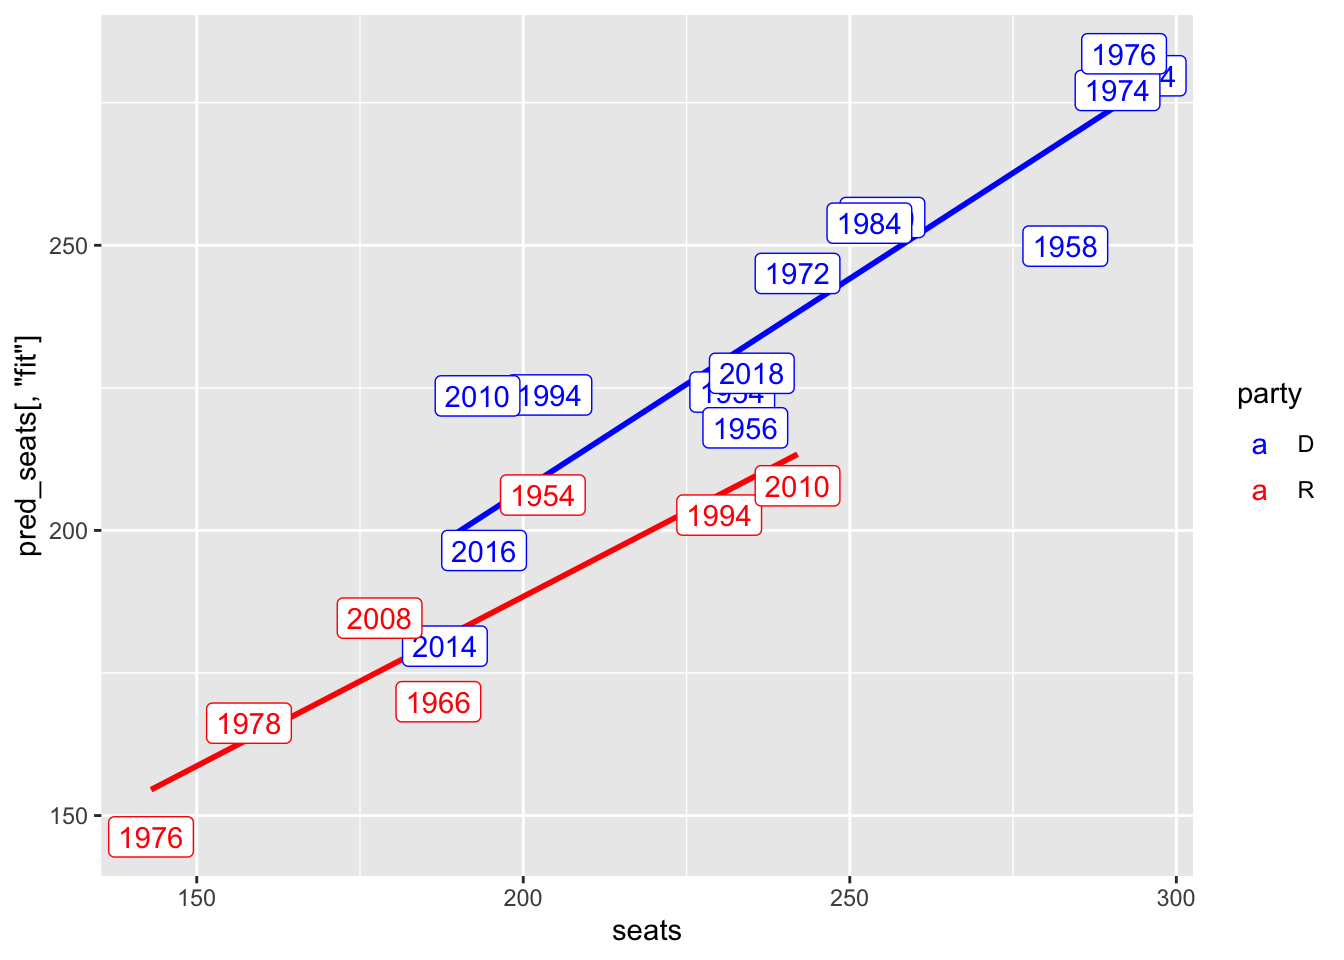
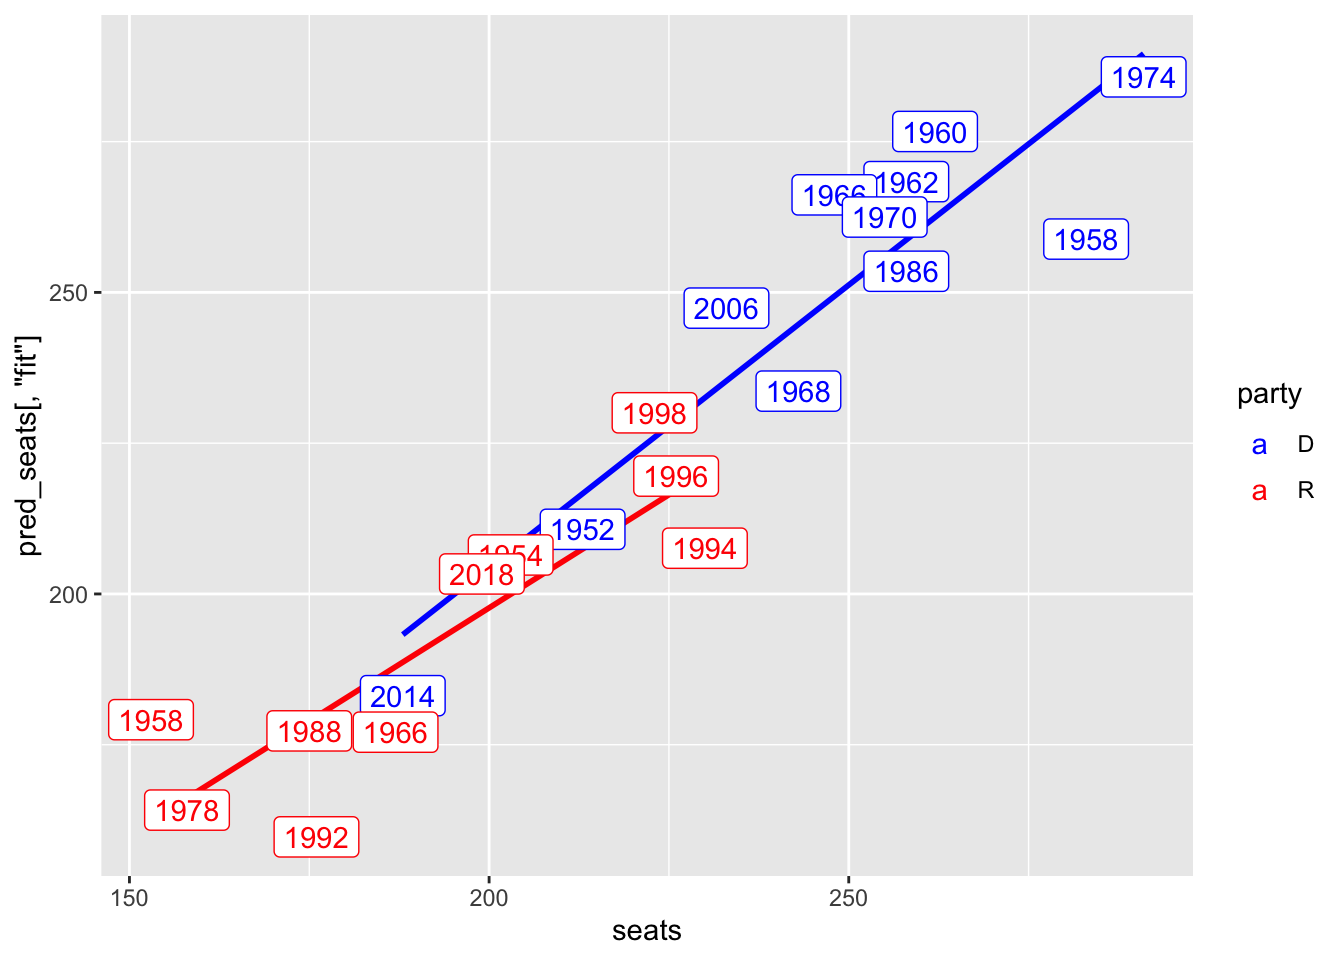
formatting

diff --git a/public/post/2022-10-23-shocks/index.html b/public/post/2022-10-23-shocks/index.html
@@ -114,45 +114,45 @@ and economic data (gdp growth).</p>
 ##                                   seats      majorvote_pct
 ##                                    (1)            (2)     
 ## ----------------------------------------------------------
-## Inc_party_pres                  -78.676***     -5.847***  
-##                                  (15.575)       (2.037)   
+## Inc_party_pres                  -82.476***     -8.512***  
+##                                  (16.156)       (2.145)   
 ##                                                           
-## MidtermYear                     13.897***      2.475***   
-##                                  (4.983)        (0.763)   
+## MidtermYear                      14.309**       2.123**   
+##                                  (5.314)        (0.788)   
 ##                                                           
-## approval                        -0.851***      -0.077***  
-##                                  (0.197)        (0.027)   
+## approval                        -0.757***      -0.084***  
+##                                  (0.186)        (0.026)   
 ##                                                           
-## GDP_growth_pct                   -0.985**       -0.098    
-##                                  (0.480)        (0.069)   
+## GDP_growth_pct                   -1.220**       -0.111    
+##                                  (0.514)        (0.071)   
 ##                                                           
-## poll_pct                         1.083**       0.240***   
-##                                  (0.500)        (0.066)   
+## poll_pct                         1.928***      0.292***   
+##                                  (0.475)        (0.065)   
 ##                                                           
-## lag_seats                        0.744***                 
-##                                  (0.075)                  
+## lag_seats                        0.648***                 
+##                                  (0.071)                  
 ##                                                           
-## lag_pv                                         0.482***   
-##                                                 (0.111)   
+## lag_pv                                         0.401***   
+##                                                 (0.101)   
 ##                                                           
-## Inc_party_pres:MidtermYear      -31.921***     -5.300***  
-##                                  (7.047)        (1.126)   
+## Inc_party_pres:MidtermYear      -27.759***     -4.322***  
+##                                  (7.830)        (1.221)   
 ##                                                           
-## Inc_party_pres:approval          1.507***      0.130***   
-##                                  (0.311)        (0.041)   
+## Inc_party_pres:approval          1.496***      0.166***   
+##                                  (0.308)        (0.041)   
 ##                                                           
-## Inc_party_pres:GDP_growth_pct    1.689**         0.140    
-##                                  (0.671)        (0.099)   
+## Inc_party_pres:GDP_growth_pct    2.042***        0.170    
+##                                  (0.723)        (0.102)   
 ##                                                           
-## Constant                        51.778***      18.856***  
-##                                  (17.900)       (3.980)   
+## Constant                         32.954*       21.296***  
+##                                  (17.902)       (3.753)   
 ##                                                           
 ## ----------------------------------------------------------
 ## Observations                        51            51      
-## R2                                0.925          0.839    
-## Adjusted R2                       0.908          0.804    
-## Residual Std. Error (df = 41)     10.443         1.514    
-## F Statistic (df = 9; 41)        55.868***      23.748***  
+## R2                                0.923          0.858    
+## Adjusted R2                       0.906          0.827    
+## Residual Std. Error (df = 41)     11.263         1.570    
+## F Statistic (df = 9; 41)        54.763***      27.584***  
 ## ==========================================================
 ## Note:                          *p&lt;0.1; **p&lt;0.05; ***p&lt;0.01</code></pre>
 <p>As the model output shows, almost all variables are significant at the 5% level.
@@ -168,14 +168,14 @@ is uncontested.</p>
 <pre><code>## # A tibble: 2 × 4
 ##   party  year pred_seats[,&quot;fit&quot;] [,&quot;lwr&quot;] [,&quot;upr&quot;] pred_vote[,&quot;fit&quot;] [,&quot;lwr&quot;]
 ##   &lt;chr&gt; &lt;dbl&gt;              &lt;dbl&gt;    &lt;dbl&gt;    &lt;dbl&gt;             &lt;dbl&gt;    &lt;dbl&gt;
-## 1 D      2022               196.     174.     219.              48.0     44.8
-## 2 R      2022               236.     213.     259.              52.3     49.0
+## 1 D      2022               198.     174.     223.              47.7     44.4
+## 2 R      2022               240.     215.     264.              52.5     49.1
 ## # … with 1 more variable: pred_vote[3] &lt;dbl&gt;</code></pre>
 <p>As the graphs above show, the model fits fairly well across the testing dataset. And,
-the prediction for 2022 is that the Democrats will get 197 seats with the Republicans
-receiving 241 seats. This sum (438) is greater than the total sum of seats (436),
+the prediction for 2022 is that the Democrats will get 198 seats with the Republicans
+receiving 240 seats. This sum (438) is greater than the total sum of seats (436),
 so I will work on considering how to best account for this constraint. Similarly,
-my model predicts that Republicans will get about 53% of the vote while Democrats
+my model predicts that Republicans will get about 52.5% of the vote while Democrats
 will receive about 47.7% of the vote. The confidence intervals are fairly large and
 just barely overlap, suggesting that both predict with strong confidence that the Republicans
 will gain a majority over the Democrats this November.</p>
@@ -220,6 +220,11 @@ whether the prior election was uncontested.</p>
 ## F Statistic              10.491*** (df = 5; 64)   
 ## ==================================================
 ## Note:                  *p&lt;0.1; **p&lt;0.05; ***p&lt;0.01</code></pre>
+</div>
+<div id="prediction-interval" class="section level1">
+<h1>Prediction Interval</h1>
+<pre class="r"><code>oh_22$pred&lt;-predict(lm_oh,oh_22,interval=&#39;prediction&#39;)
+oh_22[,c(1:3,7:9)]</code></pre>
 <pre><code>## # A tibble: 2 × 6
 ##    year party  term same_party party_support pred[,&quot;fit&quot;] [,&quot;lwr&quot;] [,&quot;upr&quot;]
 ##   &lt;dbl&gt; &lt;chr&gt; &lt;dbl&gt;      &lt;dbl&gt;         &lt;dbl&gt;        &lt;dbl&gt;    &lt;dbl&gt;    &lt;dbl&gt;
@@ -229,7 +234,8 @@ whether the prior election was uncontested.</p>
 while challenger Greg Landsman (D) will get about 42% of the vote. This is very different
 from the few polls that have been released, suggesting each candidate is at about 47% of the vote.
 However, the confidence intervals are very large, so similar to my earlier section, one of my next steps
-will be to better quantify the confidence intervals.</p>
+will be to better quantify the confidence intervals. Additionally, I will work on building more of
+a training/testing split to better validate this model and reformatting for my predictions.</p>
 <p>This difference between my prediction and the polls may be due to the recent redistricting that my model hasn’t accounted for, polling errors, or entirely other causes. Moving forward, I will work on improving
 my Ohio model to include a mixture of polling/expert ratings. I was having trouble with this
 because there are so few years that have data with this information.</p>
@@ -250,7 +256,7 @@ because there are so few years that have data with this information.</p>
         		<footer>
 			
 			<span>
-			&copy; <time datetime="2022-10-26 13:39:50.446846 -0400 EDT m=&#43;0.188037834">2022</time> . Made with <a href='https://gohugo.io'>Hugo</a> using the <a href='https://github.com/EmielH/tale-hugo/'>Tale</a> theme.
+			&copy; <time datetime="2022-10-26 13:45:05.767152 -0400 EDT m=&#43;0.188539418">2022</time> . Made with <a href='https://gohugo.io'>Hugo</a> using the <a href='https://github.com/EmielH/tale-hugo/'>Tale</a> theme.
 			</span>
 		</footer>
 

diff --git a/content/post/2022-10-23-shocks/index.html b/content/post/2022-10-23-shocks/index.html
@@ -64,45 +64,45 @@ and economic data (gdp growth).</p>
 ##                                   seats      majorvote_pct
 ##                                    (1)            (2)     
 ## ----------------------------------------------------------
-## Inc_party_pres                  -78.676***     -5.847***  
-##                                  (15.575)       (2.037)   
+## Inc_party_pres                  -82.476***     -8.512***  
+##                                  (16.156)       (2.145)   
 ##                                                           
-## MidtermYear                     13.897***      2.475***   
-##                                  (4.983)        (0.763)   
+## MidtermYear                      14.309**       2.123**   
+##                                  (5.314)        (0.788)   
 ##                                                           
-## approval                        -0.851***      -0.077***  
-##                                  (0.197)        (0.027)   
+## approval                        -0.757***      -0.084***  
+##                                  (0.186)        (0.026)   
 ##                                                           
-## GDP_growth_pct                   -0.985**       -0.098    
-##                                  (0.480)        (0.069)   
+## GDP_growth_pct                   -1.220**       -0.111    
+##                                  (0.514)        (0.071)   
 ##                                                           
-## poll_pct                         1.083**       0.240***   
-##                                  (0.500)        (0.066)   
+## poll_pct                         1.928***      0.292***   
+##                                  (0.475)        (0.065)   
 ##                                                           
-## lag_seats                        0.744***                 
-##                                  (0.075)                  
+## lag_seats                        0.648***                 
+##                                  (0.071)                  
 ##                                                           
-## lag_pv                                         0.482***   
-##                                                 (0.111)   
+## lag_pv                                         0.401***   
+##                                                 (0.101)   
 ##                                                           
-## Inc_party_pres:MidtermYear      -31.921***     -5.300***  
-##                                  (7.047)        (1.126)   
+## Inc_party_pres:MidtermYear      -27.759***     -4.322***  
+##                                  (7.830)        (1.221)   
 ##                                                           
-## Inc_party_pres:approval          1.507***      0.130***   
-##                                  (0.311)        (0.041)   
+## Inc_party_pres:approval          1.496***      0.166***   
+##                                  (0.308)        (0.041)   
 ##                                                           
-## Inc_party_pres:GDP_growth_pct    1.689**         0.140    
-##                                  (0.671)        (0.099)   
+## Inc_party_pres:GDP_growth_pct    2.042***        0.170    
+##                                  (0.723)        (0.102)   
 ##                                                           
-## Constant                        51.778***      18.856***  
-##                                  (17.900)       (3.980)   
+## Constant                         32.954*       21.296***  
+##                                  (17.902)       (3.753)   
 ##                                                           
 ## ----------------------------------------------------------
 ## Observations                        51            51      
-## R2                                0.925          0.839    
-## Adjusted R2                       0.908          0.804    
-## Residual Std. Error (df = 41)     10.443         1.514    
-## F Statistic (df = 9; 41)        55.868***      23.748***  
+## R2                                0.923          0.858    
+## Adjusted R2                       0.906          0.827    
+## Residual Std. Error (df = 41)     11.263         1.570    
+## F Statistic (df = 9; 41)        54.763***      27.584***  
 ## ==========================================================
 ## Note:                          *p&lt;0.1; **p&lt;0.05; ***p&lt;0.01</code></pre>
 <p>As the model output shows, almost all variables are significant at the 5% level.
@@ -118,14 +118,14 @@ is uncontested.</p>
 <pre><code>## # A tibble: 2 × 4
 ##   party  year pred_seats[,&quot;fit&quot;] [,&quot;lwr&quot;] [,&quot;upr&quot;] pred_vote[,&quot;fit&quot;] [,&quot;lwr&quot;]
 ##   &lt;chr&gt; &lt;dbl&gt;              &lt;dbl&gt;    &lt;dbl&gt;    &lt;dbl&gt;             &lt;dbl&gt;    &lt;dbl&gt;
-## 1 D      2022               196.     174.     219.              48.0     44.8
-## 2 R      2022               236.     213.     259.              52.3     49.0
+## 1 D      2022               198.     174.     223.              47.7     44.4
+## 2 R      2022               240.     215.     264.              52.5     49.1
 ## # … with 1 more variable: pred_vote[3] &lt;dbl&gt;</code></pre>
 <p>As the graphs above show, the model fits fairly well across the testing dataset. And,
-the prediction for 2022 is that the Democrats will get 197 seats with the Republicans
-receiving 241 seats. This sum (438) is greater than the total sum of seats (436),
+the prediction for 2022 is that the Democrats will get 198 seats with the Republicans
+receiving 240 seats. This sum (438) is greater than the total sum of seats (436),
 so I will work on considering how to best account for this constraint. Similarly,
-my model predicts that Republicans will get about 53% of the vote while Democrats
+my model predicts that Republicans will get about 52.5% of the vote while Democrats
 will receive about 47.7% of the vote. The confidence intervals are fairly large and
 just barely overlap, suggesting that both predict with strong confidence that the Republicans
 will gain a majority over the Democrats this November.</p>
@@ -170,6 +170,11 @@ whether the prior election was uncontested.</p>
 ## F Statistic              10.491*** (df = 5; 64)   
 ## ==================================================
 ## Note:                  *p&lt;0.1; **p&lt;0.05; ***p&lt;0.01</code></pre>
+</div>
+<div id="prediction-interval" class="section level1">
+<h1>Prediction Interval</h1>
+<pre class="r"><code>oh_22$pred&lt;-predict(lm_oh,oh_22,interval=&#39;prediction&#39;)
+oh_22[,c(1:3,7:9)]</code></pre>
 <pre><code>## # A tibble: 2 × 6
 ##    year party  term same_party party_support pred[,&quot;fit&quot;] [,&quot;lwr&quot;] [,&quot;upr&quot;]
 ##   &lt;dbl&gt; &lt;chr&gt; &lt;dbl&gt;      &lt;dbl&gt;         &lt;dbl&gt;        &lt;dbl&gt;    &lt;dbl&gt;    &lt;dbl&gt;
@@ -179,7 +184,8 @@ whether the prior election was uncontested.</p>
 while challenger Greg Landsman (D) will get about 42% of the vote. This is very different
 from the few polls that have been released, suggesting each candidate is at about 47% of the vote.
 However, the confidence intervals are very large, so similar to my earlier section, one of my next steps
-will be to better quantify the confidence intervals.</p>
+will be to better quantify the confidence intervals. Additionally, I will work on building more of
+a training/testing split to better validate this model and reformatting for my predictions.</p>
 <p>This difference between my prediction and the polls may be due to the recent redistricting that my model hasn’t accounted for, polling errors, or entirely other causes. Moving forward, I will work on improving
 my Ohio model to include a mixture of polling/expert ratings. I was having trouble with this
 because there are so few years that have data with this information.</p>

diff --git a/public/post/2022-09-10-blog-post-1/index.html b/public/post/2022-09-10-blog-post-1/index.html
@@ -134,7 +134,7 @@ seat share, so this blog is more exploring trends than asserting exact ramificat
         		<footer>
 			
 			<span>
-			&copy; <time datetime="2022-10-26 13:39:50.468095 -0400 EDT m=&#43;0.209286834">2022</time> . Made with <a href='https://gohugo.io'>Hugo</a> using the <a href='https://github.com/EmielH/tale-hugo/'>Tale</a> theme.
+			&copy; <time datetime="2022-10-26 13:45:05.783324 -0400 EDT m=&#43;0.204711960">2022</time> . Made with <a href='https://gohugo.io'>Hugo</a> using the <a href='https://github.com/EmielH/tale-hugo/'>Tale</a> theme.
 			</span>
 		</footer>
 

diff --git a/public/post/2022-10-07-air-war/index.html b/public/post/2022-10-07-air-war/index.html
@@ -203,7 +203,7 @@ translation can be tricky being calculated in terms of log odds. Finally, I will
         		<footer>
 			
 			<span>
-			&copy; <time datetime="2022-10-26 13:39:50.446878 -0400 EDT m=&#43;0.188069251">2022</time> . Made with <a href='https://gohugo.io'>Hugo</a> using the <a href='https://github.com/EmielH/tale-hugo/'>Tale</a> theme.
+			&copy; <time datetime="2022-10-26 13:45:05.765313 -0400 EDT m=&#43;0.186700793">2022</time> . Made with <a href='https://gohugo.io'>Hugo</a> using the <a href='https://github.com/EmielH/tale-hugo/'>Tale</a> theme.
 			</span>
 		</footer>
 

diff --git a/public/post/2022-09-15-blog-post-2-economy/index.html b/public/post/2022-09-15-blog-post-2-economy/index.html
@@ -234,7 +234,7 @@ have grand implications for house popular vote/seat share.</p>
         		<footer>
 			
 			<span>
-			&copy; <time datetime="2022-10-26 13:39:50.482875 -0400 EDT m=&#43;0.224067251">2022</time> . Made with <a href='https://gohugo.io'>Hugo</a> using the <a href='https://github.com/EmielH/tale-hugo/'>Tale</a> theme.
+			&copy; <time datetime="2022-10-26 13:45:05.804191 -0400 EDT m=&#43;0.225579710">2022</time> . Made with <a href='https://gohugo.io'>Hugo</a> using the <a href='https://github.com/EmielH/tale-hugo/'>Tale</a> theme.
 			</span>
 		</footer>
 

diff --git a/public/post/2022-10-01-incumbency/index.html b/public/post/2022-10-01-incumbency/index.html
@@ -356,7 +356,7 @@ to better model these two variables.</p>
         		<footer>
 			
 			<span>
-			&copy; <time datetime="2022-10-26 13:39:50.469984 -0400 EDT m=&#43;0.211176501">2022</time> . Made with <a href='https://gohugo.io'>Hugo</a> using the <a href='https://github.com/EmielH/tale-hugo/'>Tale</a> theme.
+			&copy; <time datetime="2022-10-26 13:45:05.788134 -0400 EDT m=&#43;0.209522376">2022</time> . Made with <a href='https://gohugo.io'>Hugo</a> using the <a href='https://github.com/EmielH/tale-hugo/'>Tale</a> theme.
 			</span>
 		</footer>
 

diff --git a/public/post/2022-10-16-ground-game/index.html b/public/post/2022-10-16-ground-game/index.html
@@ -212,7 +212,7 @@ so it is more fit for models.</p>
         		<footer>
 			
 			<span>
-			&copy; <time datetime="2022-10-26 13:39:50.446798 -0400 EDT m=&#43;0.187990042">2022</time> . Made with <a href='https://gohugo.io'>Hugo</a> using the <a href='https://github.com/EmielH/tale-hugo/'>Tale</a> theme.
+			&copy; <time datetime="2022-10-26 13:45:05.765406 -0400 EDT m=&#43;0.186793376">2022</time> . Made with <a href='https://gohugo.io'>Hugo</a> using the <a href='https://github.com/EmielH/tale-hugo/'>Tale</a> theme.
 			</span>
 		</footer>
 

diff --git a/public/post/2022-09-23-polling/index.html b/public/post/2022-09-23-polling/index.html
@@ -210,7 +210,7 @@ my model and generic
         		<footer>
 			
 			<span>
-			&copy; <time datetime="2022-10-26 13:39:50.484011 -0400 EDT m=&#43;0.225203126">2022</time> . Made with <a href='https://gohugo.io'>Hugo</a> using the <a href='https://github.com/EmielH/tale-hugo/'>Tale</a> theme.
+			&copy; <time datetime="2022-10-26 13:45:05.802119 -0400 EDT m=&#43;0.223507210">2022</time> . Made with <a href='https://gohugo.io'>Hugo</a> using the <a href='https://github.com/EmielH/tale-hugo/'>Tale</a> theme.
 			</span>
 		</footer>
 

diff --git a/public/index.html b/public/index.html
@@ -157,7 +157,7 @@
         		<footer>
 			
 			<span>
-			&copy; <time datetime="2022-10-26 13:39:50.445272 -0400 EDT m=&#43;0.186463792">2022</time> . Made with <a href='https://gohugo.io'>Hugo</a> using the <a href='https://github.com/EmielH/tale-hugo/'>Tale</a> theme.
+			&copy; <time datetime="2022-10-26 13:45:05.764578 -0400 EDT m=&#43;0.185965418">2022</time> . Made with <a href='https://gohugo.io'>Hugo</a> using the <a href='https://github.com/EmielH/tale-hugo/'>Tale</a> theme.
 			</span>
 		</footer>
 

diff --git a/public/post/index.html b/public/post/index.html
@@ -152,7 +152,7 @@
         		<footer>
 			
 			<span>
-			&copy; <time datetime="2022-10-26 13:39:50.450161 -0400 EDT m=&#43;0.191353042">2022</time> . Made with <a href='https://gohugo.io'>Hugo</a> using the <a href='https://github.com/EmielH/tale-hugo/'>Tale</a> theme.
+			&copy; <time datetime="2022-10-26 13:45:05.766642 -0400 EDT m=&#43;0.188029793">2022</time> . Made with <a href='https://gohugo.io'>Hugo</a> using the <a href='https://github.com/EmielH/tale-hugo/'>Tale</a> theme.
 			</span>
 		</footer>
 

diff --git a/public/tags/index.html b/public/tags/index.html
@@ -57,7 +57,7 @@
         		<footer>
 			
 			<span>
-			&copy; <time datetime="2022-10-26 13:39:50.449364 -0400 EDT m=&#43;0.190555501">2022</time> . Made with <a href='https://gohugo.io'>Hugo</a> using the <a href='https://github.com/EmielH/tale-hugo/'>Tale</a> theme.
+			&copy; <time datetime="2022-10-26 13:45:05.768312 -0400 EDT m=&#43;0.189700251">2022</time> . Made with <a href='https://gohugo.io'>Hugo</a> using the <a href='https://github.com/EmielH/tale-hugo/'>Tale</a> theme.
 			</span>
 		</footer>
 

diff --git a/public/categories/index.html b/public/categories/index.html
@@ -57,7 +57,7 @@
         		<footer>
 			
 			<span>
-			&copy; <time datetime="2022-10-26 13:39:50.449819 -0400 EDT m=&#43;0.191010876">2022</time> . Made with <a href='https://gohugo.io'>Hugo</a> using the <a href='https://github.com/EmielH/tale-hugo/'>Tale</a> theme.
+			&copy; <time datetime="2022-10-26 13:45:05.76762 -0400 EDT m=&#43;0.189007585">2022</time> . Made with <a href='https://gohugo.io'>Hugo</a> using the <a href='https://github.com/EmielH/tale-hugo/'>Tale</a> theme.
 			</span>
 		</footer>
 
